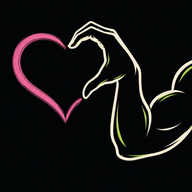
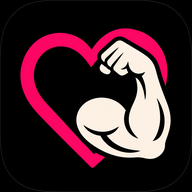
Add files via upload

diff --git a/index.html b/index.html
@@ -1812,6 +1812,16 @@ nav.tabs button.active{
 }
 
 </style>
+
+  <!-- PWA -->
+  <link rel="manifest" href="/manifest.webmanifest">
+  <meta name="theme-color" content="#0f141b">
+  <meta name="mobile-web-app-capable" content="yes">
+  <meta name="apple-mobile-web-app-capable" content="yes">
+  <meta name="apple-mobile-web-app-status-bar-style" content="black-translucent">
+  <meta name="apple-mobile-web-app-title" content="Hybrid Log">
+  <link rel="apple-touch-icon" href="/apple-touch-icon.png">
+
 </head>
 <body>
 <div class="app">
@@ -3003,5 +3013,17 @@ loadResults();
 qa('nav.tabs button').forEach(b=>b.onclick=()=>switchTab(b.dataset.tab));q('#startStandardRaceBtn').onclick=()=>startSession('經典挑戰');q('#startSimulationBtn').onclick=()=>startSession('日常挑戰');q('#startCustomBtn').onclick=()=>startSession('自訂挑戰');q('#customRun').oninput=()=>{};q('#addRunBtn').onclick=()=>addCustomItem('Run');q('#pauseBtn').onclick=pauseToggle;q('#abandonBtn').onclick=abandon;q('#finishChallengeBtn').onclick=finishChallenge;q('#closeSessionBtn').onclick=()=>{if(session)pauseToggle();q('#trainingModal').classList.remove('open')};q('#skipLogBtn').onclick=skipLog;q('#saveLogBtn').onclick=saveLog;q('#refreshBtn').onclick=loadResults;
 })();
 </script>
+
+<script>
+if ("serviceWorker" in navigator) {
+  window.addEventListener("load", () => {
+    navigator.serviceWorker
+      .register("/service-worker.js", { updateViaCache: "none" })
+      .then(registration => registration.update())
+      .catch(err => console.error("Service Worker registration failed:", err));
+  });
+}
+</script>
+
 </body>
 </html>

diff --git a/service-worker.js b/service-worker.js
@@ -5,7 +5,8 @@ const APP_SHELL = [
   "/index.html",
   "/manifest.webmanifest",
   "/icon-192.png",
-  "/icon-512.png"
+  "/icon-512.png",
+  "/apple-touch-icon.png"
 ];
 
 self.addEventListener("install", event => {
@@ -32,10 +33,10 @@ self.addEventListener("fetch", event => {
   const request = event.request;
   const url = new URL(request.url);
 
-  // Do not intercept Supabase or other cross-origin requests.
+  // Never intercept Supabase / other external services.
   if (url.origin !== self.location.origin) return;
 
-  // Network-first for page navigation, fallback to cached app shell.
+  // Page navigation: always try the latest version first.
   if (request.mode === "navigate") {
     event.respondWith(
       fetch(request)
@@ -49,7 +50,7 @@ self.addEventListener("fetch", event => {
     return;
   }
 
-  // Cache-first for local static assets.
+  // Static same-origin files: use cache, then network.
   event.respondWith(
     caches.match(request).then(cached =>
       cached ||
